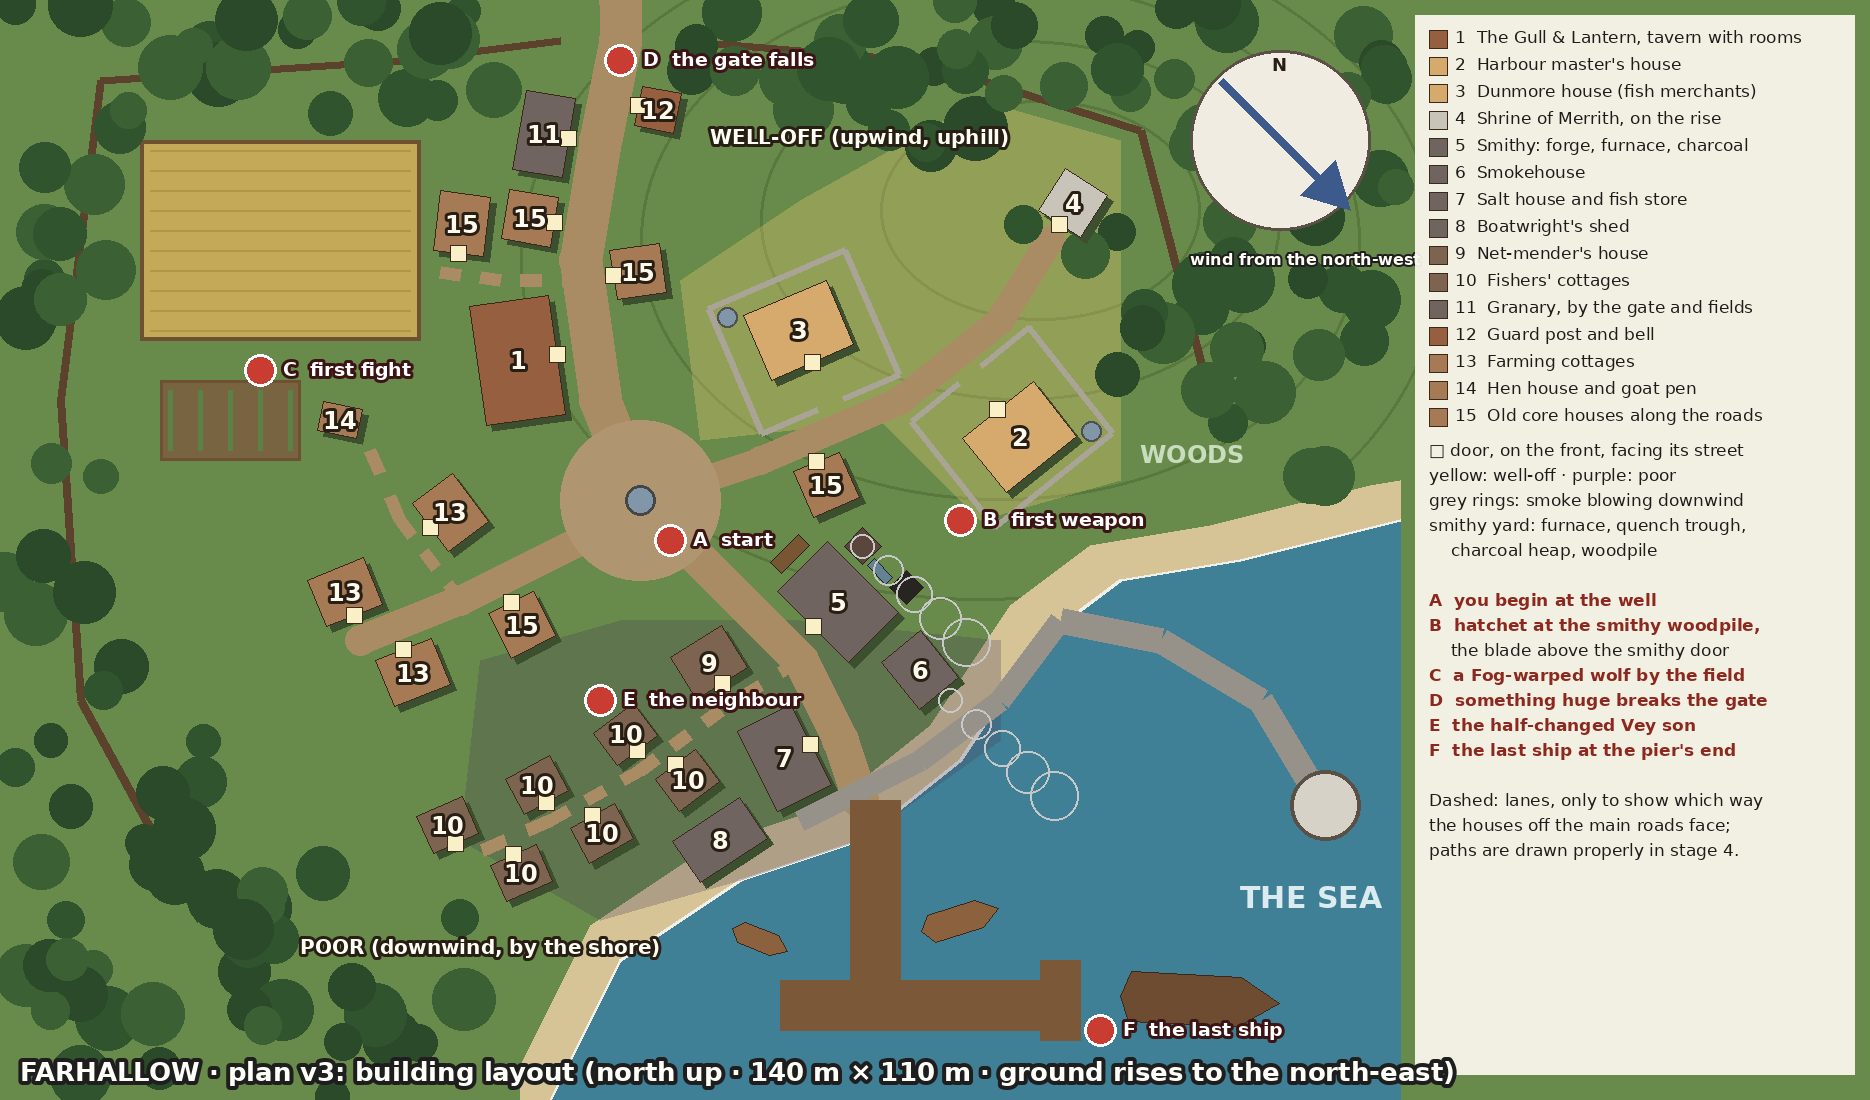
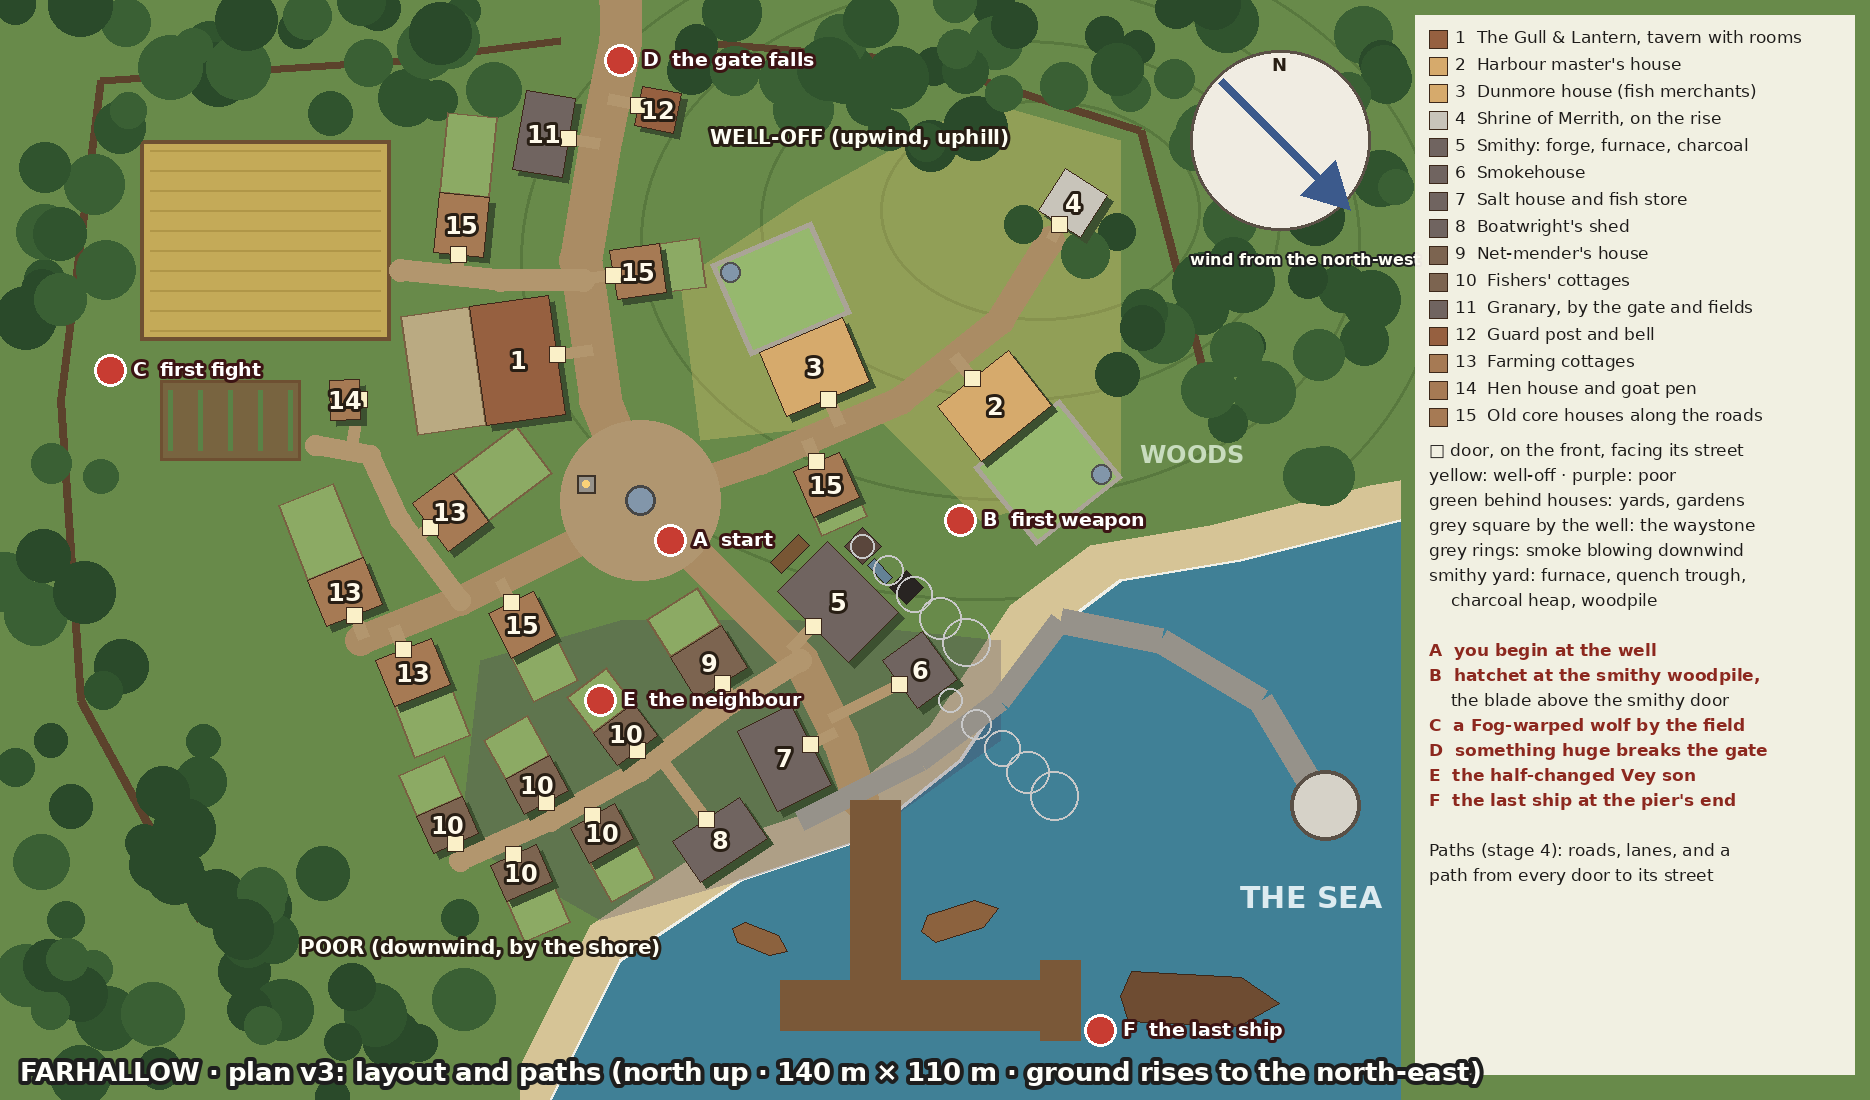
Wayfolk house variations; Farhallow plots, waystone and paths (stage 4)
Claude-Session: https://claude.ai/code/session_01YFqBBR7wJ4yMRnMyKvr2Fs

diff --git a/docs/peoples/wayfolk.md b/docs/peoples/wayfolk.md
@@ -92,10 +92,31 @@ doors and that no stairs block a way or a door). Sizes on the 2 m kit grid; ever
 8. **Farmstead** (outside towns), a house like the cottage but longer, with a barn and byre across a yard, all facing
    the yard, and the yard gate facing the road.
 
+### Variations: no two houses alike
+
+Each building type is a template, not a copy. The 3D builder picks these per house (seeded, so a town always rebuilds
+the same), within what the owner's wealth and the distance from Aldrath allow:
+
+- **Width and depth:** street houses 2 to 4 bays wide (4-8 m on the kit grid), cottages 6-8 m long; plots as deep as the
+  ground behind allows.
+- **Storeys:** 1-3 by wealth; a loft or attic rooms under the roof.
+- **Roof:** gable end to the street or eaves to the street, steep or very steep; hipped for the well-off; dormers;
+  thatch, shingles or tiles by wealth.
+- **Front:** jettied upper floor or flush, one jetty or two; the side passage left or right (mirrored plans); door and
+  windows shifted a bay; a bay window or oriel for the rich.
+- **Materials and colour:** stone, brick or timber ground floor; limewash tints (white, cream, ochre, pale pink, pale
+  blue-grey) and each family's beam colour.
+- **Additions:** a lean-to, an outside stair, a porch bench, a shop sign and awning, flower boxes, a chimney at either
+  end or in the middle, a small boiler and pipes near Aldrath.
+- **Condition:** new, weathered, sagging or patched, by wealth and by how far into the Fog; colours more muted far out.
+- **Plots:** different outbuildings (woodshed, hen house, workshop, a well) and gardens.
+- **Rule:** neighbouring houses must differ in at least two of width, storeys, roof direction and colour, so a street
+  never shows a copy next to its original.
+
 ## What a stranger notices first
 
 1. A **carved waystone** at every crossroads, with a lamp burning in its niche, telling you how far everything is.
-2. **Lanterns by every door** at dusk, and the road lamp of the waylodge.
+2. **The waylodge's road lamp,** burning all night beside the waystone, and travellers sleeping there for free.
 3. **Jettied, painted timber houses** crowding a busy street, with every people's face in the crowd.
 
 ## For mixed places (Farhallow, Hollin's Cross)

diff --git a/docs/settlements/farhallow.md b/docs/settlements/farhallow.md
@@ -89,4 +89,16 @@ the fishers' cottages crowd the shore lanes; the fish store moves to the pier.
 
 ![Farhallow plan v3](farhallow-plan-v3.png)
 
-Drawn by `tools/map/farhallow_plan.py` on the characters branch. Main roads only; lanes come in stage 4.
+Drawn by `tools/map/farhallow_plan.py` on the characters branch, which checks every building, plot, yard and the
+waystone against each other, the roads and lanes, the square, the palisade, the fields, the sea and the beach.
+
+Following the Wayfolk sheet: every house faces its street, with its plot behind (walled gardens for the well-off, the
+inn's coach yard, short fenced yards for the fishers), each plot as deep as the room behind allows; the old waystone
+stands in the square facing the gate road. Two crowded houses were dropped and the salt house has no plot.
+
+## 4. Paths
+
+The main roads (gate, harbour, west and rise roads) and three lanes (the shore lane through the fishers' quarter, the
+field lane to the field gate, the farm lane to the hen house and vegetable plots), plus a short path from every door to
+its street. The plan script checks that every door reaches a path without crossing anything, that every lane starts and
+ends on another path, at a door or at a named place (the field gate, the plots), and that every lane is used.
